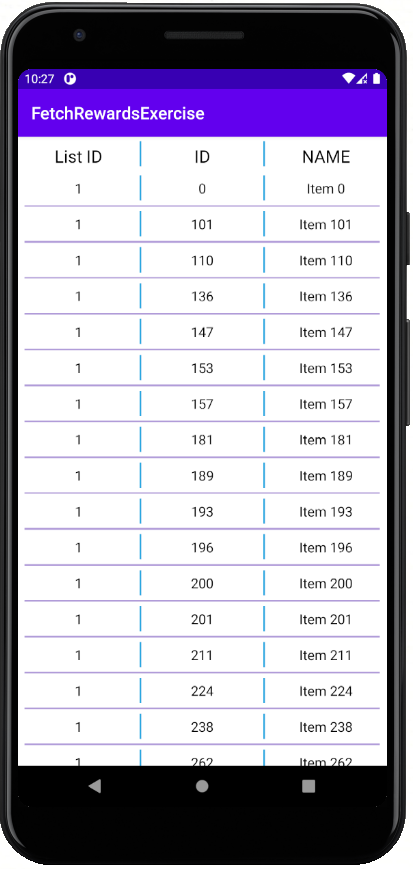
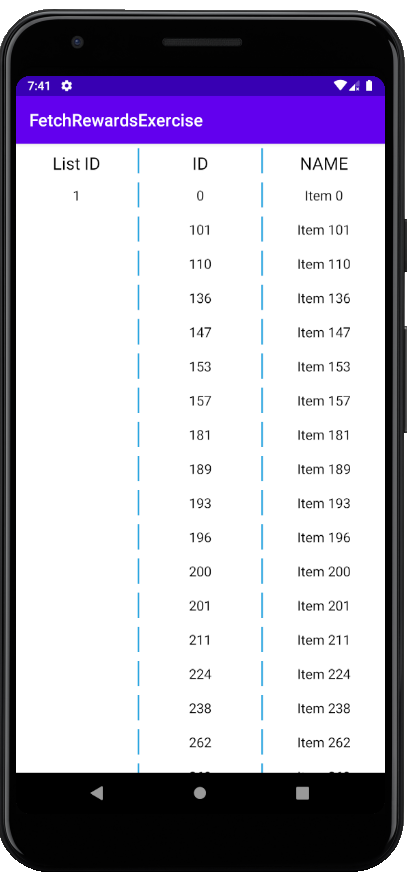
grouped

diff --git a/app/src/main/java/com/larryngo/fetchrewardsexercise/GridAdapter.java b/app/src/main/java/com/larryngo/fetchrewardsexercise/GridAdapter.java
@@ -54,7 +54,16 @@ public class GridAdapter extends BaseAdapter {
         TextView tv_name = view.findViewById(R.id.fetch_name);
 
         //setting the texts for each column
-        tv_listID.setText(String.valueOf(list_objects.get(position).getListId()));
+        if(position >= 1) { //prevent accessing unknown in the array
+            if(list_objects.get(position).getListId() == list_objects.get(position-1).getListId()) {
+                tv_listID.setText(""); //no text
+            } else {
+                tv_listID.setText(String.valueOf(list_objects.get(position).getListId())); //sets the listid
+            }
+        } else {
+            tv_listID.setText(String.valueOf(list_objects.get(position).getListId())); //sets the listid for the first entry ( 1 )
+        }
+
         tv_ID.setText(String.valueOf(list_objects.get(position).getId()));
         tv_name.setText(list_objects.get(position).getName());
 

diff --git a/app/src/main/java/com/larryngo/fetchrewardsexercise/MainActivity.java b/app/src/main/java/com/larryngo/fetchrewardsexercise/MainActivity.java
@@ -56,6 +56,7 @@ public class MainActivity extends AppCompatActivity {
                     public void onResponse(Call<List<FetchObject>> call, Response<List<FetchObject>> response) {
                         if(response.isSuccessful()) {
                             responseList = response.body(); //gets the entire array of objects
+
                             List<FetchObject> fetchList = new ArrayList<>(); //this will be the list of real objects, which filters out the objects without names
 
                             for(FetchObject obj : responseList) { //goes through all the objects in the json file

diff --git a/app/src/main/java/com/larryngo/fetchrewardsexercise/FetchList.java b/app/src/main/java/com/larryngo/fetchrewardsexercise/FetchList.java
@@ -1,0 +1,15 @@
+package com.larryngo.fetchrewardsexercise;
+
+import java.util.ArrayList;
+
+public class FetchList {
+    private ArrayList<FetchObject> list;
+
+    public void setList(ArrayList<FetchObject> list) {
+        this.list = list;
+    }
+
+    public ArrayList<FetchObject> getList() {
+        return list;
+    }
+}
